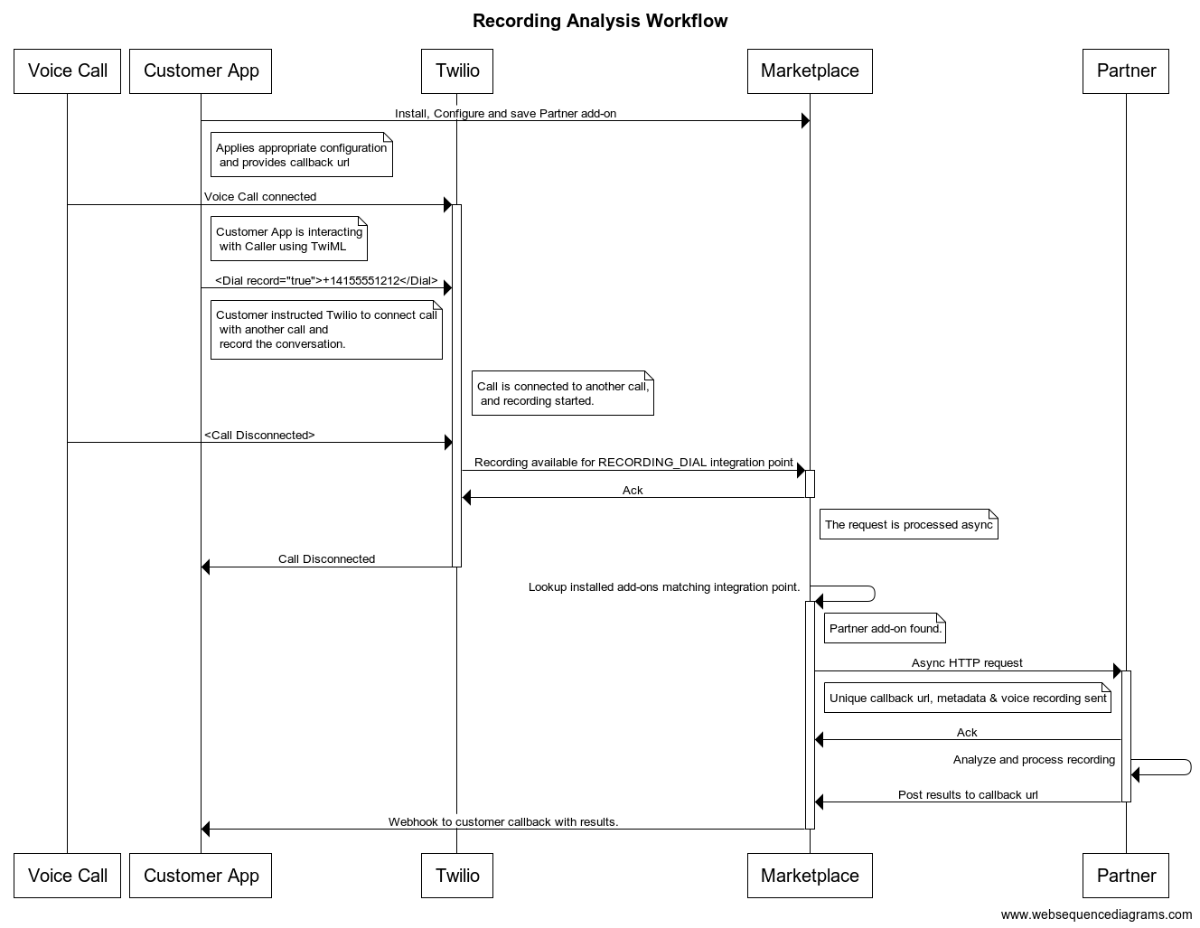
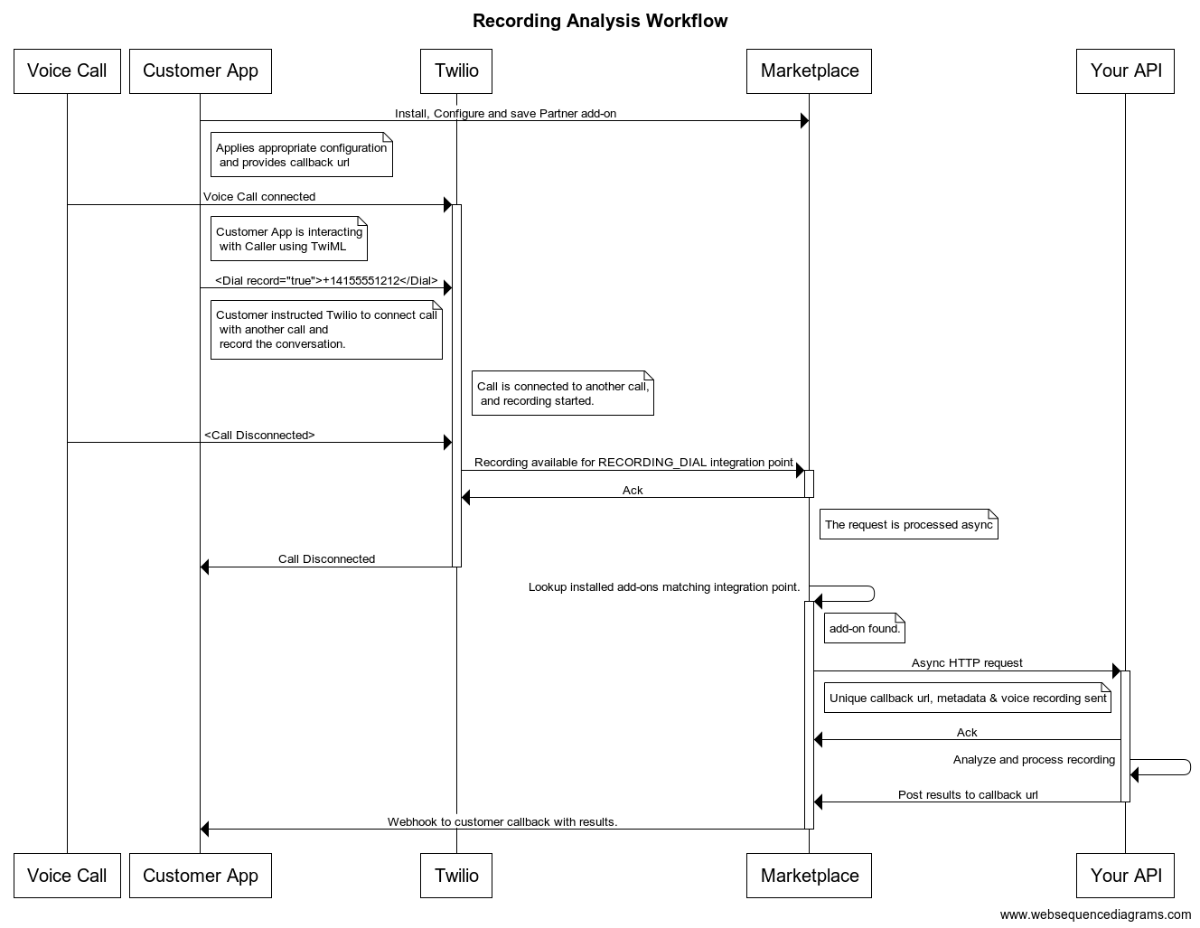
More updates to Readme

diff --git a/addons/recording-analysis/node/README.md b/addons/recording-analysis/node/README.md
@@ -19,20 +19,20 @@ The following is a high-level workflow on how the recording analysis add-on work
 
 ### Headers
 
-Twilio will always pass the following set of headers along with the POST request to the Partner API that may be used for security and debugging purposes if the partner so desires.
+Twilio will always pass the following set of headers along with the POST request to your API that may be used for security and debugging purposes.
 
 | Header Name | Value |
 |---|---|
 | X-Twilio-AddOnVersionSid | The unique identifier of the Add-on version being used by the developer. <br>Use it to identify if the developer is using an older version of your Add-on  |
-| X-Twilio-AccountSid | The Account Sid of the partner (your) account. <br>Example : AC05b3911315a1322d1dede66eed740000 |
-| X-Twilio-Signature | The signature of this request, signed by the partner’s account, and used to verify the request came from Twilio unmodified. See the “Validating Requests are coming from Twilio” section here for details of signature algorithm : https://www.twilio.com/docs/api/security <br>Example : 0FqS203W44/lM2UEM+51hRzwat4= |
-| X-Twilio-RequestSid | The unique identifier of this particular partner request.  Used for billing and debugging. <br>Example : MR000009775bb6d43d1cabc4955723fae1 |
+| X-Twilio-AccountSid | The Account Sid of your Twilio Project. <br>Example : AC05b3911315a1322d1dede66eed740000 |
+| X-Twilio-Signature | The signature of this request, signed by your Twilio Project, and used to verify the request came from Twilio unmodified. See the “Validating Requests are coming from Twilio” section here for details of signature algorithm : https://www.twilio.com/docs/api/security <br>Example : 0FqS203W44/lM2UEM+51hRzwat4= |
+| X-Twilio-RequestSid | The unique identifier for this request.  Used for billing and debugging. <br>Example : MR000009775bb6d43d1cabc4955723fae1 |
 | X-Twilio-AddOnSid | The unique identifier for the Add-on being invoked.<br>Use this to identify which of your Add-ons is generating this request. |
 | X-Twilio-AddOnInstallSid | The unique identifier for a developers install of an Add-on.<br>Use this to distinguish between developers using this particular Add-on. |
 
 ### Add-on Request Fields
 
-When the Add-on is called, Twilio can supply the following fields to the partner API.
+When the Add-on is called, Twilio can supply the following fields to your API.
 
 | Field      | Description                                        |
 |------------|----------------------------------------------------|
@@ -46,13 +46,13 @@ When the Add-on is called, Twilio can supply the following fields to the partner
 | Channels   | Number of channels contained in audio              |
 
 
-### Partner API Response Requirements
+### Your API Response Requirements
 
-Both success and error responses are expected to be in a standard JSON object format.  The server is expected to return a 2xx response for all requests, even error requests.  This is to disambiguate partner errors that may affect SLA from legitimately rejected requests due to misconfiguration or other.  For successfully synchronous Add-on requests, a 200 OK response is expected, with a content-type application/json and a JSON object returned in the body.  For successful asynchronous Add-on requests, a 202 Accepted response is expected, with no body returned.  For both sync and async cases error cases, a 200 OK is expected with a content-type application/json and a JSON object describing the error condition.  
+Both success and error responses are expected to be in a standard JSON object format.  The server is expected to return a 2xx response for all requests, even error requests. This is to disambiguate your API errors that may affect SLA from legitimately rejected requests due to misconfiguration or other.  For successfully synchronous Add-on requests, a 200 OK response is expected, with a content-type application/json and a JSON object returned in the body.  For successful asynchronous Add-on requests, a 202 Accepted response is expected, with no body returned.  For both sync and async cases error cases, a 200 OK is expected with a content-type application/json and a JSON object describing the error condition.  
 
-Any 4xx or 5xx errors returned will be considered partner misconfiguration, or outage, will be logged in the error reporting system and will count against the partner's SLA.  For 4xx errors, Twilio will fail the request immediately.  For 5xx errors, Twilio will retry up to N times, or until the TTL has passed.  Partners should expect retries, using the request_sid as an idempotency token.
+Any 4xx or 5xx errors returned will be considered your add-on misconfiguration, or outage, will be logged in the error reporting system and will count against your SLA.  For 4xx errors, Twilio will fail the request immediately.  For 5xx errors, Twilio will retry up to N times, or until the TTL has passed. You should expect retries, using the request_sid as an idempotency token.
 
-For async requests, the partner is responsible for POSTing back the JSON object body to Twilio once the async task is completed.  This JSON body will be the same format as above, for both success or failure
+For async requests, the you are responsible for POSTing back the JSON object body to Twilio once the async task is completed.  This JSON body will be the same format as above, for both success or failure
 
 ### SLA
 
@@ -94,10 +94,10 @@ Test with `npm test` (Make sure test.wav exists in the home directory)
 
 ## Security & Privacy Requirements
 
-It is important to secure communication between Twilio and partners, for both Twilio's security as well as the partners. Because partners are opening up an HTTP endpoint to the public internet, all efforts should be made to make certain that endpoint does not expose the partner to fraud or attack. To ensure this, a number of mechanisms will be in place
+It is important to secure communication between Twilio and your api. Because you are opening up an HTTP endpoint to the public internet, all efforts should be made to make certain that endpoint does not expose you to fraud or attack. To ensure this, a number of mechanisms will be in place
 
 1. Twilio only supports HTTPS/TLSv1.2.
-2. To help mitigate any DDOS attack exposure, Twilio requests can be setup to only come from specific IPs. Twilio will contact partners before adding any IPs to this range. If you require such a setup, let us know. The default behavior is that they will not come from specific IPs.
+2. To help mitigate any DDOS attack exposure, Twilio requests can be setup to only come from specific IPs. Twilio will contact you before adding any IPs to this range. If you require such a setup, let us know. The default behavior is that they will not come from specific IPs.
 
 	>174.129.222.33
 
@@ -107,8 +107,8 @@ It is important to secure communication between Twilio and partners, for both Tw
 
 	>23.21.226.67
 
-3. Twilio signs every request with the partner's shared secret.  Partners are strongly encouraged to validate the signature of the requests they receive to confirm they're coming from their Twilio account.
-4. Twilio sends a unique request SID with each invocation.  Partners are encouraged to treat this as an idempotency token, allowing them to thwart replay attacks
-5. Twilio also sends an invocation date (UTC) and TTL as part of each signed payload.  Checking this TTL (with a reasonable accommodation for clock-skew) allows partners to thwart replay attack.
+3. Twilio signs every request with the your shared secret. You are strongly encouraged to validate the signature of the requests they receive to confirm they're coming from their Twilio account.
+4. Twilio sends a unique request SID with each invocation. You are encouraged to treat this as an idempotency token, allowing them to thwart replay attacks
+5. Twilio also sends an invocation date (UTC) and TTL as part of each signed payload.  Checking this TTL (with a reasonable accommodation for clock-skew) allows you to thwart replay attack.
 
 ## ToDo
